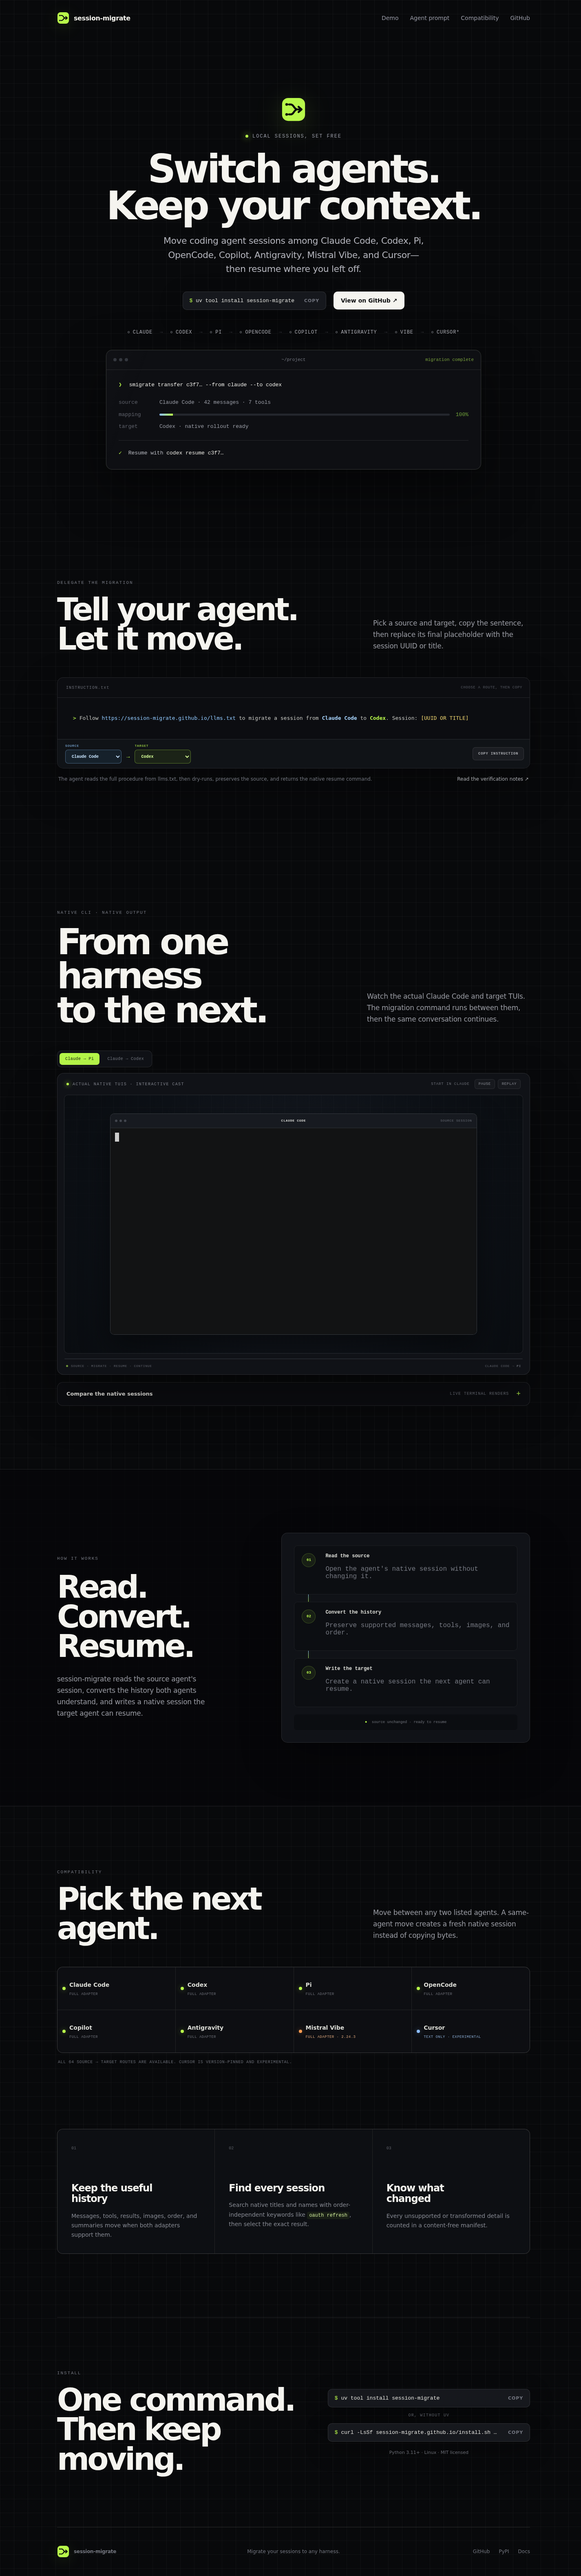
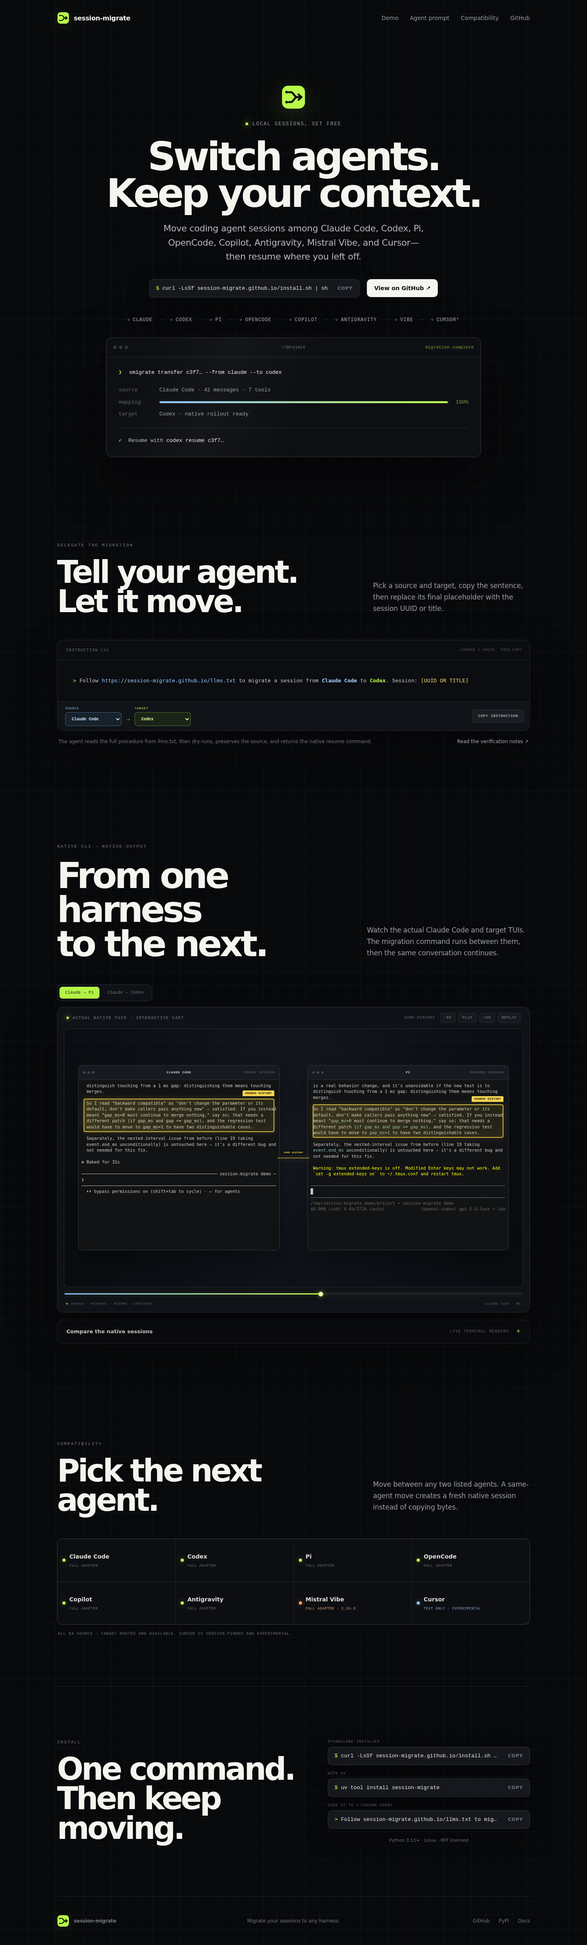
feat: streamline the interactive migration story

diff --git a/website/app/LiveTrajectory.tsx b/website/app/LiveTrajectory.tsx
@@ -1,6 +1,6 @@
 "use client";
 
-import { useCallback, useEffect, useMemo, useRef, useState } from "react";
+import { type CSSProperties, useCallback, useEffect, useMemo, useRef, useState } from "react";
 
 type Target = "pi" | "codex";
 type Phase = "source" | "pullback" | "convert" | "launch" | "overlap" | "target";
@@ -25,9 +25,11 @@ declare global {
   }
 }
 
-const DURATION = 43;
-const TARGET_START = 17.5;
-const HIGHLIGHT_START = 20;
+const DURATION = 50;
+const SOURCE_STOP = 11.25;
+const SOURCE_SPEED = 3.5;
+const TARGET_START = 25;
+const HIGHLIGHT_START = 27;
 const SHARED_HISTORY_START = 'So I read "backward compatible"';
 const SHARED_HISTORY_END = "two distinguishable cases.";
 
@@ -47,11 +49,11 @@ const targetDetails = {
 } as const;
 
 function phaseAt(time: number): Phase {
-  if (time < 8) return "source";
-  if (time < 10.5) return "pullback";
-  if (time < 16) return "convert";
-  if (time < 18.5) return "launch";
-  if (time < 23.5) return "overlap";
+  if (time < 8.5) return "source";
+  if (time < 12) return "pullback";
+  if (time < 22.5) return "convert";
+  if (time < 25.5) return "launch";
+  if (time < 31) return "overlap";
   return "target";
 }
 
@@ -148,11 +150,15 @@ function CastWindow({
   mountRef,
   kind,
   cast,
+  contextLimit,
+  targetLabel,
 }: {
   label: string;
   mountRef: React.RefObject<HTMLDivElement | null>;
   kind: "source" | "target";
   cast: string;
+  contextLimit?: boolean;
+  targetLabel?: string;
 }) {
   return (
     <div className={`native-window native-window-${kind}`}>
@@ -162,6 +168,12 @@ function CastWindow({
         <em>{kind === "source" ? "source session" : "resumed session"}</em>
       </div>
       <div className="cast-mount" data-cast-src={cast} ref={mountRef} />
+      {kind === "source" && (
+        <div className={`context-limit ${contextLimit ? "is-visible" : ""}`} aria-live="polite">
+          <b>Claude Code context window full</b>
+          <span>Continue this session in {targetLabel}</span>
+        </div>
+      )}
       <div className="history-marker" data-anchored="false" aria-hidden="true"><span>shared history</span></div>
     </div>
   );
@@ -184,15 +196,16 @@ export function LiveTrajectory() {
   const [compareOpen, setCompareOpen] = useState(false);
   const targetDetail = targetDetails[target];
   const phase = phaseAt(elapsed);
+  const showContextLimit = elapsed >= 7 && elapsed < 12.8;
 
   const migrationCommand = useMemo(
     () => `smigrate transfer 1000…0000 --from claude --to ${target}`,
     [target],
   );
-  const commandText = typed(migrationCommand, (elapsed - 10.8) / 2.7);
-  const showScan = elapsed >= 13.4;
-  const showWrite = elapsed >= 14.2;
-  const showDone = elapsed >= 15;
+  const commandText = typed(migrationCommand, (elapsed - 12.5) / 6);
+  const showScan = elapsed >= 19;
+  const showWrite = elapsed >= 20.3;
+  const showDone = elapsed >= 21.5;
 
   const pausePlayers = useCallback(() => {
     sourcePlayer.current?.pause();
@@ -201,10 +214,13 @@ export function LiveTrajectory() {
 
   const syncPlayers = useCallback((time: number, shouldPlay: boolean) => {
     if (!sourcePlayer.current || !targetPlayer.current) return;
-    if (time < TARGET_START) {
+    if (time < SOURCE_STOP) {
       targetPlayer.current.pause();
       if (shouldPlay) sourcePlayer.current.play();
       else sourcePlayer.current.pause();
+    } else if (time < TARGET_START) {
+      sourcePlayer.current.pause();
+      targetPlayer.current.pause();
     } else {
       sourcePlayer.current.pause();
       if (shouldPlay) targetPlayer.current.play();
@@ -216,7 +232,7 @@ export function LiveTrajectory() {
     const next = Math.max(0, Math.min(DURATION, time));
     elapsedRef.current = next;
     setElapsed(next);
-    sourcePlayer.current?.seek(next * 2);
+    sourcePlayer.current?.seek(Math.min(next, SOURCE_STOP) * SOURCE_SPEED);
     targetPlayer.current?.seek(Math.max(0, next - TARGET_START));
     syncPlayers(next, playingRef.current && visibleRef.current);
   }, [syncPlayers]);
@@ -239,6 +255,12 @@ export function LiveTrajectory() {
     lastFrameRef.current = performance.now();
     syncPlayers(elapsedRef.current, next && visibleRef.current);
   }, [syncPlayers]);
+
+  const pauseForSeek = useCallback(() => {
+    playingRef.current = false;
+    setPlaying(false);
+    pausePlayers();
+  }, [pausePlayers]);
 
   useEffect(() => {
     let cancelled = false;
@@ -270,7 +292,7 @@ export function LiveTrajectory() {
       sourcePlayer.current = window.AsciinemaPlayer.create(
         "/demo-claude.cast",
         sourceMount.current,
-        { ...common, speed: 2 },
+        { ...common, speed: SOURCE_SPEED },
       );
       targetPlayer.current = window.AsciinemaPlayer.create(
         targetDetail.cast,
@@ -397,17 +419,19 @@ export function LiveTrajectory() {
         <div className="trajectory-topbar">
           <div className="trajectory-label"><i /> ACTUAL NATIVE TUIS · INTERACTIVE CAST</div>
           <div className="trajectory-controls">
-            <span>{phase === "source" ? "Start in Claude" : phase === "convert" ? "Migrate" : phase === "overlap" ? "Same history" : `Continue in ${targetDetail.label}`}</span>
+            <span>{showContextLimit ? "Claude context is full" : phase === "source" ? "Work in Claude" : phase === "pullback" ? "Hand off the session" : phase === "convert" ? "Migrate the session" : phase === "launch" ? "Resume native session" : phase === "overlap" ? "Same history" : `Continue in ${targetDetail.label}`}</span>
+            <button type="button" onClick={() => setTime(elapsedRef.current - 5)} aria-label="Rewind the migration story by five seconds">−5s</button>
             <button type="button" onClick={toggle} aria-label={playing ? "Pause the migration story" : "Play the migration story"}>
               {playing ? "Pause" : "Play"}
             </button>
+            <button type="button" onClick={() => setTime(elapsedRef.current + 5)} aria-label="Advance the migration story by five seconds">+5s</button>
             <button type="button" onClick={replay} aria-label="Replay the migration story">Replay</button>
           </div>
         </div>
 
         <div className="handoff-viewport" aria-label={`Claude Code session migrated to ${targetDetail.label} and continued there`}>
           <div className="handoff-grid" data-phase={phase}>
-            <CastWindow label="Claude Code" mountRef={sourceMount} kind="source" cast="/demo-claude.cast" />
+            <CastWindow label="Claude Code" mountRef={sourceMount} kind="source" cast="/demo-claude.cast" contextLimit={showContextLimit} targetLabel={targetDetail.label} />
 
             <div className="migration-window">
               <div className="native-window-bar">
@@ -420,7 +444,7 @@ export function LiveTrajectory() {
                 <div className="migration-output">
                   <p className={showScan ? "is-visible" : ""}><b>source</b><span>Claude Code session found</span></p>
                   <p className={showWrite ? "is-visible" : ""}><b>target</b><span>{targetDetail.label} native session written</span></p>
-                  <p className={showDone ? "is-visible migration-done" : ""}><b>✓</b><span>source unchanged · ready to resume</span></p>
+                  <p className={showDone ? "is-visible migration-done" : ""}><b>✓</b><span>history continued · ready to resume</span></p>
                 </div>
                 <p className={`migration-launch ${showDone ? "is-visible" : ""}`}><span>$</span> {targetDetail.launch}</p>
               </div>
@@ -431,7 +455,20 @@ export function LiveTrajectory() {
           </div>
         </div>
 
-        <div className="trajectory-progress" aria-hidden="true"><i style={{ width: `${elapsed / DURATION * 100}%` }} /></div>
+        <label className="trajectory-scrubber">
+          <span className="sr-only">Migration story position</span>
+          <input
+            type="range"
+            min="0"
+            max={DURATION}
+            step="0.1"
+            value={elapsed}
+            onPointerDown={pauseForSeek}
+            onChange={(event) => setTime(Number(event.target.value))}
+            aria-label="Seek through the migration story"
+            style={{ "--story-progress": `${elapsed / DURATION * 100}%` } as CSSProperties}
+          />
+        </label>
         <figcaption>
           <span><i /> source · migrate · resume · continue</span>
           <em>Claude Code → {targetDetail.label}</em>

diff --git a/website/app/globals.css b/website/app/globals.css
@@ -30,7 +30,7 @@ a { color: inherit; text-decoration: none; }
 .nav-links { display: flex; gap: 28px; color: var(--muted); font-size: 14px; }
 .nav-links a:hover { color: var(--ink); }
 
-.hero { padding: 150px 0 116px; text-align: center; }
+.hero { padding: 120px 0 90px; text-align: center; }
 .hero-logo { display: block; width: 60px; height: 60px; margin: 0 auto 24px; filter: drop-shadow(0 14px 32px rgba(184,249,74,.18)); }
 .eyebrow { display: inline-flex; gap: 10px; align-items: center; color: var(--muted); font-family: var(--font-geist-mono), monospace; font-size: 12px; text-transform: uppercase; letter-spacing: .16em; }
 .eyebrow span { width: 7px; height: 7px; background: var(--lime); border-radius: 50%; box-shadow: 0 0 16px var(--lime); }
@@ -98,7 +98,7 @@ h1 { margin: 28px auto 24px; max-width: 1100px; font-size: clamp(58px, 7.1vw, 96
 .agent-prompt-note a { flex: 0 0 auto; color: #a8aaaf; }
 .agent-prompt-note a:hover { color: var(--lime); }
 
-.section { padding: 155px 0; }
+.section { padding: 120px 0; }
 .section-heading { display: grid; grid-template-columns: minmax(0, 1fr) minmax(270px, 400px); column-gap: 60px; align-items: end; margin-bottom: 58px; }
 .section-heading > p, .install > div > p { grid-column: 1 / -1; margin: 0 0 24px; color: #747780; font: 11px var(--font-geist-mono), monospace; letter-spacing: .17em; }
 .section-heading h2, .install h2 { margin: 0; font-size: clamp(48px, 6.6vw, 88px); line-height: .95; letter-spacing: -.065em; font-weight: 560; }
@@ -137,6 +137,10 @@ h1 { margin: 28px auto 24px; max-width: 1100px; font-size: clamp(58px, 7.1vw, 96
 .cast-mount .ap-wrapper { min-height: 100%; background: #0d1117; }
 .cast-mount .ap-terminal { padding: 0 !important; }
 .cast-mount .ap-overlay-start { display: none !important; }
+.context-limit { position: absolute; z-index: 7; right: 3%; bottom: 4%; left: 3%; display: grid; gap: 3px; padding: 10px 12px; visibility: hidden; color: #c8c9c5; background: rgba(27,20,16,.96); border: 1px solid rgba(255,159,92,.5); border-radius: 6px; opacity: 0; transform: translateY(8px); transition: opacity .35s ease, transform .35s ease, visibility .35s; box-shadow: 0 12px 30px rgba(0,0,0,.42); font: 8px/1.45 var(--font-geist-mono), monospace; }
+.context-limit.is-visible { visibility: visible; opacity: 1; transform: none; }
+.context-limit b { color: #ffad73; font-weight: 650; text-transform: uppercase; letter-spacing: .07em; }
+.context-limit span { color: #a9abb1; }
 .native-window-target { left: 52%; width: 46%; opacity: 0; transform: translateX(8%) scale(.96); pointer-events: none; }
 .migration-window { top: 14%; left: 52%; width: 46%; height: 72%; opacity: 0; transform: translateX(8%) scale(.96); }
 .migration-body { display: flex; flex-direction: column; height: calc(100% - 35px); padding: clamp(16px, 2.4vw, 28px); color: #d7d9d4; font: clamp(8px, 1.1vw, 13px)/1.7 var(--font-geist-mono), monospace; }
@@ -167,8 +171,13 @@ h1 { margin: 28px auto 24px; max-width: 1100px; font-size: clamp(58px, 7.1vw, 96
 .history-bridge i { flex: 1; height: 1px; background: #f6d54f; box-shadow: 0 0 12px rgba(246,213,79,.7); }
 .history-bridge span { position: absolute; bottom: 8px; padding: 2px 4px; white-space: nowrap; color: #f6d54f; background: rgba(12, 15, 20, .92); border-radius: 3px; font: 600 6px var(--font-geist-mono), monospace; text-transform: uppercase; letter-spacing: .07em; }
 .handoff-grid[data-phase="overlap"][data-history-aligned="true"] .history-bridge { opacity: 1; transform: scaleX(1); }
-.trajectory-progress { height: 2px; margin: 12px 1px 0; overflow: hidden; background: #24272d; border-radius: 4px; }
-.trajectory-progress i { display: block; height: 100%; background: linear-gradient(90deg, var(--blue), var(--lime)); box-shadow: 0 0 12px rgba(184,249,74,.38); transition: width 50ms linear; }
+.trajectory-scrubber { display: block; height: 22px; margin: 6px 1px -4px; }
+.trajectory-scrubber input { width: 100%; height: 22px; margin: 0; appearance: none; cursor: ew-resize; background: transparent; }
+.trajectory-scrubber input::-webkit-slider-runnable-track { height: 3px; background: linear-gradient(90deg, var(--blue), var(--lime) var(--story-progress), #24272d var(--story-progress)); border-radius: 4px; box-shadow: 0 0 12px rgba(184,249,74,.2); }
+.trajectory-scrubber input::-moz-range-track { height: 3px; background: linear-gradient(90deg, var(--blue), var(--lime) var(--story-progress), #24272d var(--story-progress)); border: 0; border-radius: 4px; }
+.trajectory-scrubber input::-webkit-slider-thumb { width: 12px; height: 12px; margin-top: -4.5px; appearance: none; background: var(--ink); border: 2px solid var(--lime); border-radius: 50%; box-shadow: 0 0 12px rgba(184,249,74,.45); }
+.trajectory-scrubber input::-moz-range-thumb { width: 9px; height: 9px; background: var(--ink); border: 2px solid var(--lime); border-radius: 50%; box-shadow: 0 0 12px rgba(184,249,74,.45); }
+.trajectory-scrubber input:focus-visible { outline: 2px solid var(--blue); outline-offset: 2px; }
 .trajectory-frame figcaption { display: flex; justify-content: space-between; padding: 12px 5px 0; color: #5f626b; font-size: 8px; text-transform: uppercase; letter-spacing: .09em; }
 .trajectory-frame figcaption span { display: flex; gap: 7px; align-items: center; }
 .trajectory-frame figcaption span i { width: 5px; height: 5px; background: #6f9439; border-radius: 50%; }
@@ -220,9 +229,10 @@ h1 { margin: 28px auto 24px; max-width: 1100px; font-size: clamp(58px, 7.1vw, 96
 
 .install { display: grid; grid-template-columns: 1fr minmax(420px, .85fr); gap: 80px; align-items: center; padding-top: 130px; padding-bottom: 130px; border-top: 1px solid var(--line); }
 .install h2 { font-size: clamp(48px, 6vw, 76px); }
-.install-commands { display: grid; gap: 14px; }
+.install-commands { display: grid; gap: 16px; }
 .install-commands .copy-command { width: 100%; }
-.install-commands > span { color: #5d6068; font: 10px var(--font-geist-mono), monospace; text-align: center; text-transform: uppercase; letter-spacing: .12em; }
+.install-choice { display: grid; gap: 7px; }
+.install-choice > span { color: #686b74; font: 9px var(--font-geist-mono), monospace; text-transform: uppercase; letter-spacing: .11em; }
 .install-commands small { margin-top: 6px; color: #696c74; font-size: 11px; text-align: center; }
 
 .footer { display: grid; grid-template-columns: 1fr 1fr 1fr; align-items: center; min-height: 120px; border-top: 1px solid var(--line); color: #747780; font-size: 12px; }
@@ -270,6 +280,7 @@ h1 { margin: 28px auto 24px; max-width: 1100px; font-size: clamp(58px, 7.1vw, 96
   .trajectory-frame { padding-inline: 8px; }
   .trajectory-topbar { min-height: 45px; }
   .trajectory-controls > span { display: none; }
+  .trajectory-controls button:first-of-type, .trajectory-controls button:nth-of-type(3) { display: none; }
   .trajectory-frame figcaption em { display: none; }
   .handoff-viewport { aspect-ratio: 4 / 3; }
   .native-window, .migration-window { border-radius: 7px; }

diff --git a/website/app/page.tsx b/website/app/page.tsx
@@ -53,7 +53,7 @@ export default function Home() {
           Copilot, Antigravity, Mistral Vibe, and Cursor—then resume where you left off.
         </p>
         <div className="hero-actions">
-          <CopyCommand command="uv tool install session-migrate" />
+          <CopyCommand command="curl -LsSf https://session-migrate.github.io/install.sh | sh" />
           <a className="primary-link" href="https://github.com/xhluca/session-migrate">
             View on GitHub <span>↗</span>
           </a>
@@ -114,28 +114,6 @@ export default function Home() {
         <LiveTrajectory />
       </section>
 
-      <section className="workflow section" id="how-it-works">
-        <div className="shell workflow-grid">
-          <div className="section-heading compact">
-            <p>HOW IT WORKS</p>
-            <h2>Read. Convert.<br />Resume.</h2>
-            <span>
-              session-migrate reads the source agent&apos;s session, converts the
-              history both agents understand, and writes a native session the
-              target agent can resume.
-            </span>
-          </div>
-          <div className="stream-card" aria-label="Animated migration pipeline">
-            <div className="pipeline-step"><b>01</b><div><span>Read the source</span><p>Open the agent&apos;s native session without changing it.</p></div></div>
-            <i className="pipeline-arrow" aria-hidden="true" />
-            <div className="pipeline-step"><b>02</b><div><span>Convert the history</span><p>Preserve supported messages, tools, images, and order.</p></div></div>
-            <i className="pipeline-arrow" aria-hidden="true" />
-            <div className="pipeline-step"><b>03</b><div><span>Write the target</span><p>Create a native session the next agent can resume.</p></div></div>
-            <div className="stream-status"><span>●</span> source unchanged · ready to resume</div>
-          </div>
-        </div>
-      </section>
-
       <section className="section shell" id="compatibility">
         <div className="section-heading horizontal">
           <div><p>COMPATIBILITY</p><h2>Pick the next agent.</h2></div>
@@ -151,30 +129,15 @@ export default function Home() {
         <p className="capability-note">All 64 source → target routes are available. Cursor is version-pinned and experimental.</p>
       </section>
 
-      <section className="feature-grid shell">
-        <article>
-          <span>01</span><h3>Keep the useful history</h3>
-          <p>Messages, tools, results, images, order, and summaries move when both adapters support them.</p>
-        </article>
-        <article>
-          <span>02</span><h3>Find every session</h3>
-          <p>Search native titles and names with order-independent keywords like <code>oauth refresh</code>, then select the exact result.</p>
-        </article>
-        <article>
-          <span>03</span><h3>Know what changed</h3>
-          <p>Every unsupported or transformed detail is counted in a content-free manifest.</p>
-        </article>
-      </section>
-
       <section className="install section shell" id="install">
         <div>
           <p>INSTALL</p>
           <h2>One command.<br />Then keep moving.</h2>
         </div>
         <div className="install-commands">
-          <CopyCommand command="uv tool install session-migrate" />
-          <span>or, without uv</span>
-          <CopyCommand command="curl -LsSf https://session-migrate.github.io/install.sh | sh" />
+          <div className="install-choice"><span>Standalone installer</span><CopyCommand command="curl -LsSf https://session-migrate.github.io/install.sh | sh" /></div>
+          <div className="install-choice"><span>With uv</span><CopyCommand command="uv tool install session-migrate" /></div>
+          <div className="install-choice"><span>Give it to a coding agent</span><CopyCommand prefix=">" command="Follow https://session-migrate.github.io/llms.txt to migrate my session." /></div>
           <small>Python 3.11+ · Linux · MIT licensed</small>
         </div>
       </section>

diff --git a/website/app/CopyCommand.tsx b/website/app/CopyCommand.tsx
@@ -2,7 +2,7 @@
 
 import { useState } from "react";
 
-export function CopyCommand({ command }: { command: string }) {
+export function CopyCommand({ command, prefix = "$" }: { command: string; prefix?: string }) {
   const [copied, setCopied] = useState(false);
 
   async function copy() {
@@ -13,7 +13,7 @@ export function CopyCommand({ command }: { command: string }) {
 
   return (
     <button className="copy-command" type="button" onClick={copy} aria-label={`Copy ${command}`}>
-      <code><span>$</span> {command}</code>
+      <code><span>{prefix}</span> {command}</code>
       <b aria-live="polite">{copied ? "Copied" : "Copy"}</b>
     </button>
   );
